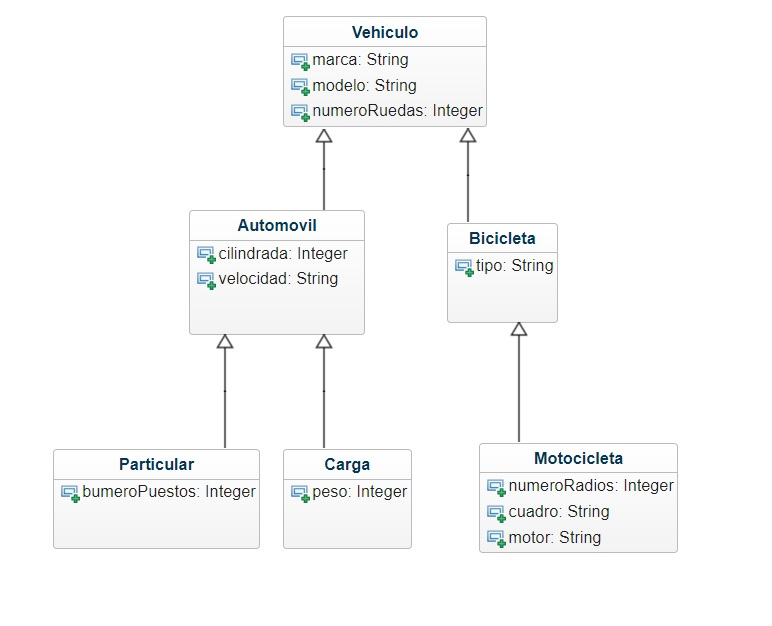
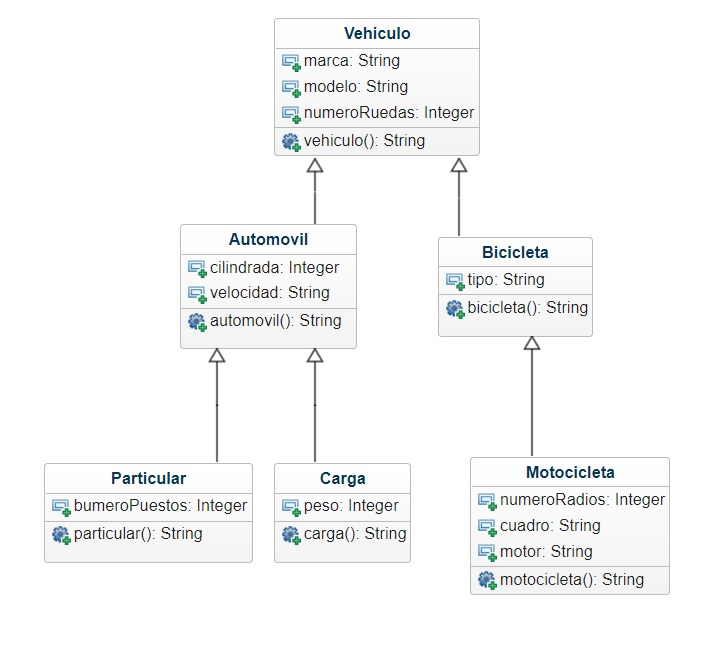
llevando las clases a clases.py

Changed region(s): [[0.0616, 0.0, 0.8319, 0.8802], [0.6162, 0.6981, 0.9552, 0.9409]]

diff --git a/drilling.py b/drilling.py
@@ -1,52 +1,6 @@
 import json
 import csv
-
-
-class Vehiculo():
-    marca = ''
-    modelo = ''
-    numeroRuedas = 0
-
-
-class Automovil(Vehiculo):
-    velocidad = ""
-    cilindrada = ""
-
-
-class Particular(Automovil):
-    def __init__(self, marca, modelo, numeroRuedas, velocidad, cilindrada, numeroPuestos):
-        self.marca = marca
-        self.modelo = modelo
-        self.numeroRuedas = numeroRuedas
-        self.velocidad = velocidad
-        self.cilindrada = cilindrada
-        self.numeroPuestos = numeroPuestos
-
-
-class Carga(Automovil):
-    def __init__(self, marca, modelo, numeroRuedas, velocidad, cilindrada, peso):
-        self.marca = marca
-        self.modelo = modelo
-        self.numeroRuedas = numeroRuedas
-        self.velocidad = velocidad
-        self.cilindrada = cilindrada
-        self.peso = peso
-
-
-class Bicicleta(Vehiculo):
-    def __init__(self, marca, modelo, numeroRuedas, tipo):
-        self.marca = marca
-        self.modelo = modelo
-        self.numeroRuedas = numeroRuedas
-        self.tipo = tipo
-
-
-class Motocicleta(Bicicleta):
-    def __init__(self, marca, modelo, numeroRuedas, tipo, motor, cuadro, numeroRadios):
-        Bicicleta.__init__(self, marca, modelo, numeroRuedas, tipo)
-        self.numeroRadios = numeroRadios
-        self.cuadro = cuadro
-        self.motor = motor
+from clases import *
 
 
 def guardar_datos_csv(objetos):
@@ -70,7 +24,7 @@ def leer_datos_csv():
             vehiculos.append(vehiculo)
         archivo.close()
         for vehiculo in vehiculos:
-            print("Lista de Vehiculos", vehiculo[0][17:-2])
+            print("Lista de Vehiculos", vehiculo[0][15:-2])
             print(vehiculo[1], "\n")
     except:
         print("salta la excepcion en metodo leer")
@@ -93,8 +47,9 @@ for i in range(1, cantidadVehiculos+1):
 
 print("Imprimiendo por pantalla los vehiculos")
 for i in range(1, len(vehiculos)):
-    print("Datos del vehiculo", i, ": Marca", vehiculos[i].marca, ", Modelo", vehiculos[i].modelo, ",", str(
-        vehiculos[i].numeroRuedas), "ruedas", vehiculos[i].velocidad, "km/h,", vehiculos[i].cilindrada, "cc")
+    print(vehiculos[i].__str__())
+    # print("Datos del vehiculo", i, ": Marca", vehiculos[i].marca, ", Modelo", vehiculos[i].modelo, ",", str(
+    #    vehiculos[i].numeroRuedas), "ruedas", vehiculos[i].velocidad, "km/h,", vehiculos[i].cilindrada, "cc")
 
 print("################## Fin Parte 1 ###############\n")
 print("################## Parte 2 ###############")
@@ -108,16 +63,23 @@ print("Marca", carga.marca, ", Modelo", carga.modelo, ",", str(carga.numeroRueda
 bicicleta = Bicicleta("Shimano", "MT Ranger", 2, "Carrera")
 print("Marca", bicicleta.marca, ", Modelo", bicicleta.modelo, ",",
       str(bicicleta.numeroRuedas), "ruedas Tipo: ", bicicleta.tipo)
-motocicleta = Motocicleta("BMW", "F800s", 2, "Deportiva", "2T", "Doble Viga", 21)
+motocicleta = Motocicleta(
+    "BMW", "F800s", 2, "Deportiva", "2T", "Doble Viga", 21)
 print("Marca", motocicleta.marca, ", Modelo", motocicleta.modelo, ",", str(motocicleta.numeroRuedas), "ruedas Tipo:",
-      motocicleta.tipo, "Motor:", motocicleta.motor, ", Cuadro:", motocicleta.cuadro, ",Nro Radios", motocicleta.numeroRadios,"\n")
+      motocicleta.tipo, "Motor:", motocicleta.motor, ", Cuadro:", motocicleta.cuadro, ",Nro Radios", motocicleta.numeroRadios, "\n")
 
-print("Motocicleta es instancia con relación a Vehículo: ",isinstance(motocicleta, Vehiculo))
-print("Motocicleta es instancia con relación a Automovil: ",isinstance(motocicleta, Automovil))
-print("Motocicleta es instancia con relación a Vehículo particular: ",isinstance(motocicleta, Particular))
-print("Motocicleta es instancia con relación a Vehículo de carga: ",isinstance(motocicleta, Carga))
-print("Motocicleta es instancia con relación a Bicicleta: ",isinstance(motocicleta, Bicicleta))
-print("Motocicleta es instancia con relación a Motocicleta: ",isinstance(motocicleta, Motocicleta))
+print("Motocicleta es instancia con relación a Vehículo: ",
+      isinstance(motocicleta, Vehiculo))
+print("Motocicleta es instancia con relación a Automovil: ",
+      isinstance(motocicleta, Automovil))
+print("Motocicleta es instancia con relación a Vehículo particular: ",
+      isinstance(motocicleta, Particular))
+print("Motocicleta es instancia con relación a Vehículo de carga: ",
+      isinstance(motocicleta, Carga))
+print("Motocicleta es instancia con relación a Bicicleta: ",
+      isinstance(motocicleta, Bicicleta))
+print("Motocicleta es instancia con relación a Motocicleta: ",
+      isinstance(motocicleta, Motocicleta))
 
 print("################## Fin Parte 2 ###############\n")
 print("################## Parte 3 ###############")

diff --git a/clases.py b/clases.py
@@ -1,0 +1,63 @@
+class Vehiculo():
+    marca = ''
+    modelo = ''
+    numeroRuedas = 0
+
+    def __str__(self):
+        return f"Marca {self.marca}, Modelo {self.modelo}, {str(self.numeroRuedas)},ruedas"
+
+
+class Automovil(Vehiculo):
+    velocidad = ""
+    cilindrada = ""
+
+    def __str__(self):
+        return super().__str__()+f",{self.velocidad} km/h, {self.cilindrada} cc."
+
+
+class Particular(Automovil):
+    def __init__(self, marca, modelo, numeroRuedas, velocidad, cilindrada, numeroPuestos):
+        self.marca = marca
+        self.modelo = modelo
+        self.numeroRuedas = numeroRuedas
+        self.velocidad = velocidad
+        self.cilindrada = cilindrada
+        self.numeroPuestos = numeroPuestos
+
+    def __str__(self):
+        return super().__str__()+f", Puestos {self.numeroPuestos}"
+
+
+class Carga(Automovil):
+    def __init__(self, marca, modelo, numeroRuedas, velocidad, cilindrada, peso):
+        self.marca = marca
+        self.modelo = modelo
+        self.numeroRuedas = numeroRuedas
+        self.velocidad = velocidad
+        self.cilindrada = cilindrada
+        self.peso = peso
+
+    def __str__(self):
+        return super().__str__()+f",{self.peso},kg."
+
+
+class Bicicleta(Vehiculo):
+    def __init__(self, marca, modelo, numeroRuedas, tipo):
+        self.marca = marca
+        self.modelo = modelo
+        self.numeroRuedas = numeroRuedas
+        self.tipo = tipo
+
+    def __str__(self):
+        return super().__str__()+f",Tipo {self.tipo}"
+
+
+class Motocicleta(Bicicleta):
+    def __init__(self, marca, modelo, numeroRuedas, tipo, motor, cuadro, numeroRadios):
+        super().__init__(marca, modelo, numeroRuedas, tipo)
+        self.numeroRadios = numeroRadios
+        self.cuadro = cuadro
+        self.motor = motor
+
+        def __str__(self):
+            return super().__str__() + f",aro {self.numeroRadios}, Cuadro: {self.cuadro}, Motor: {self.motor}"
